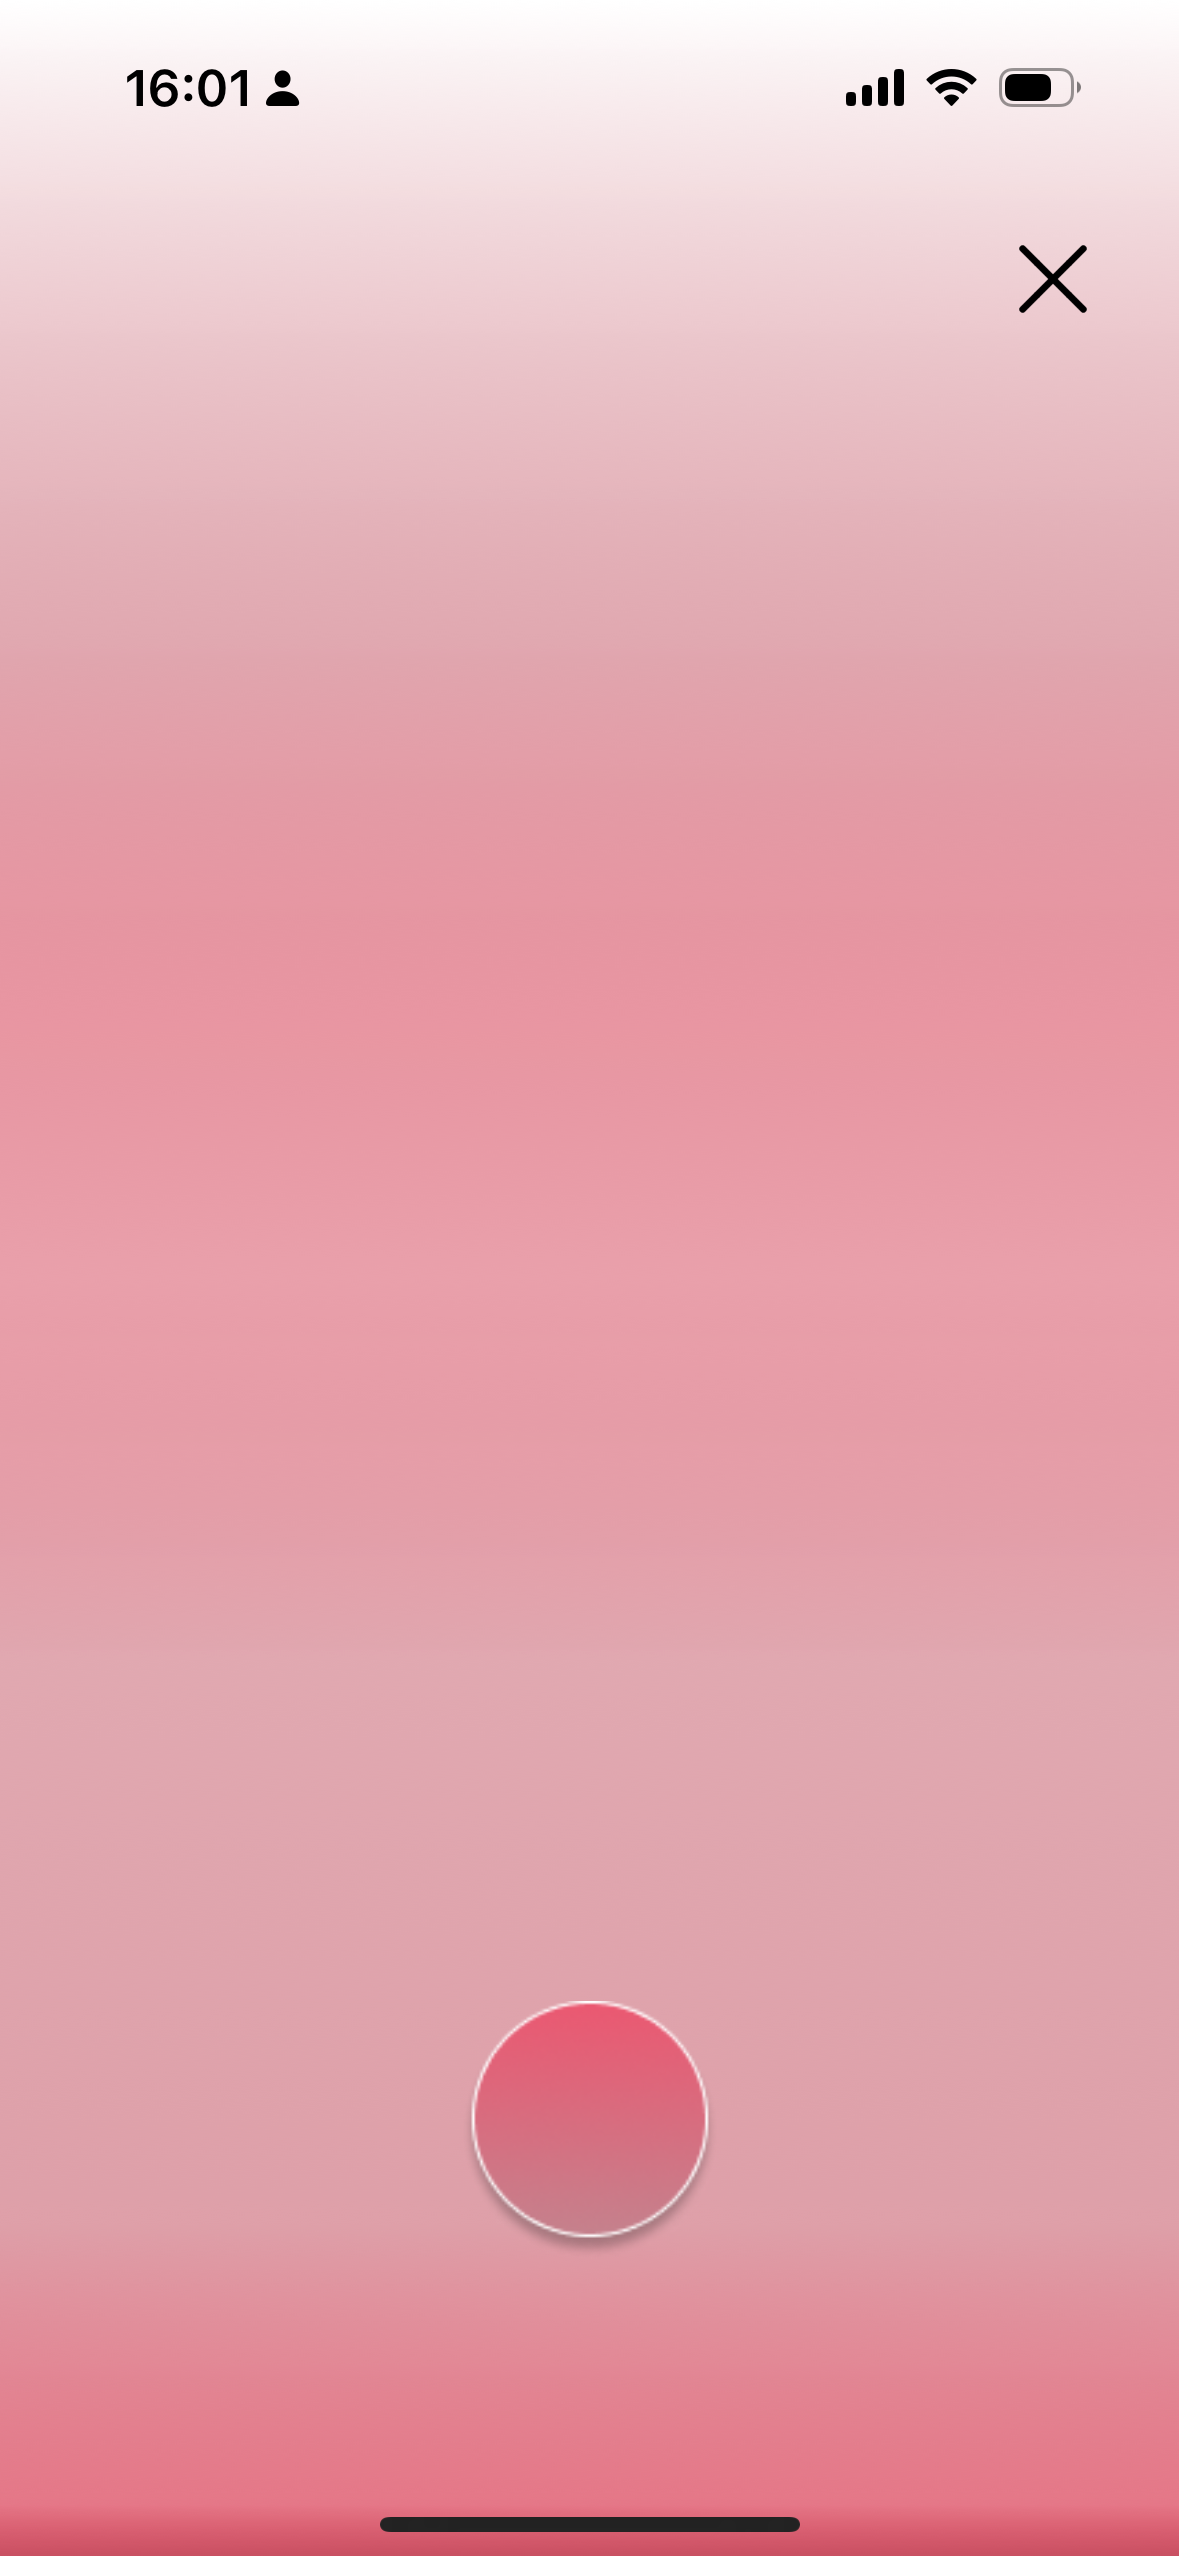
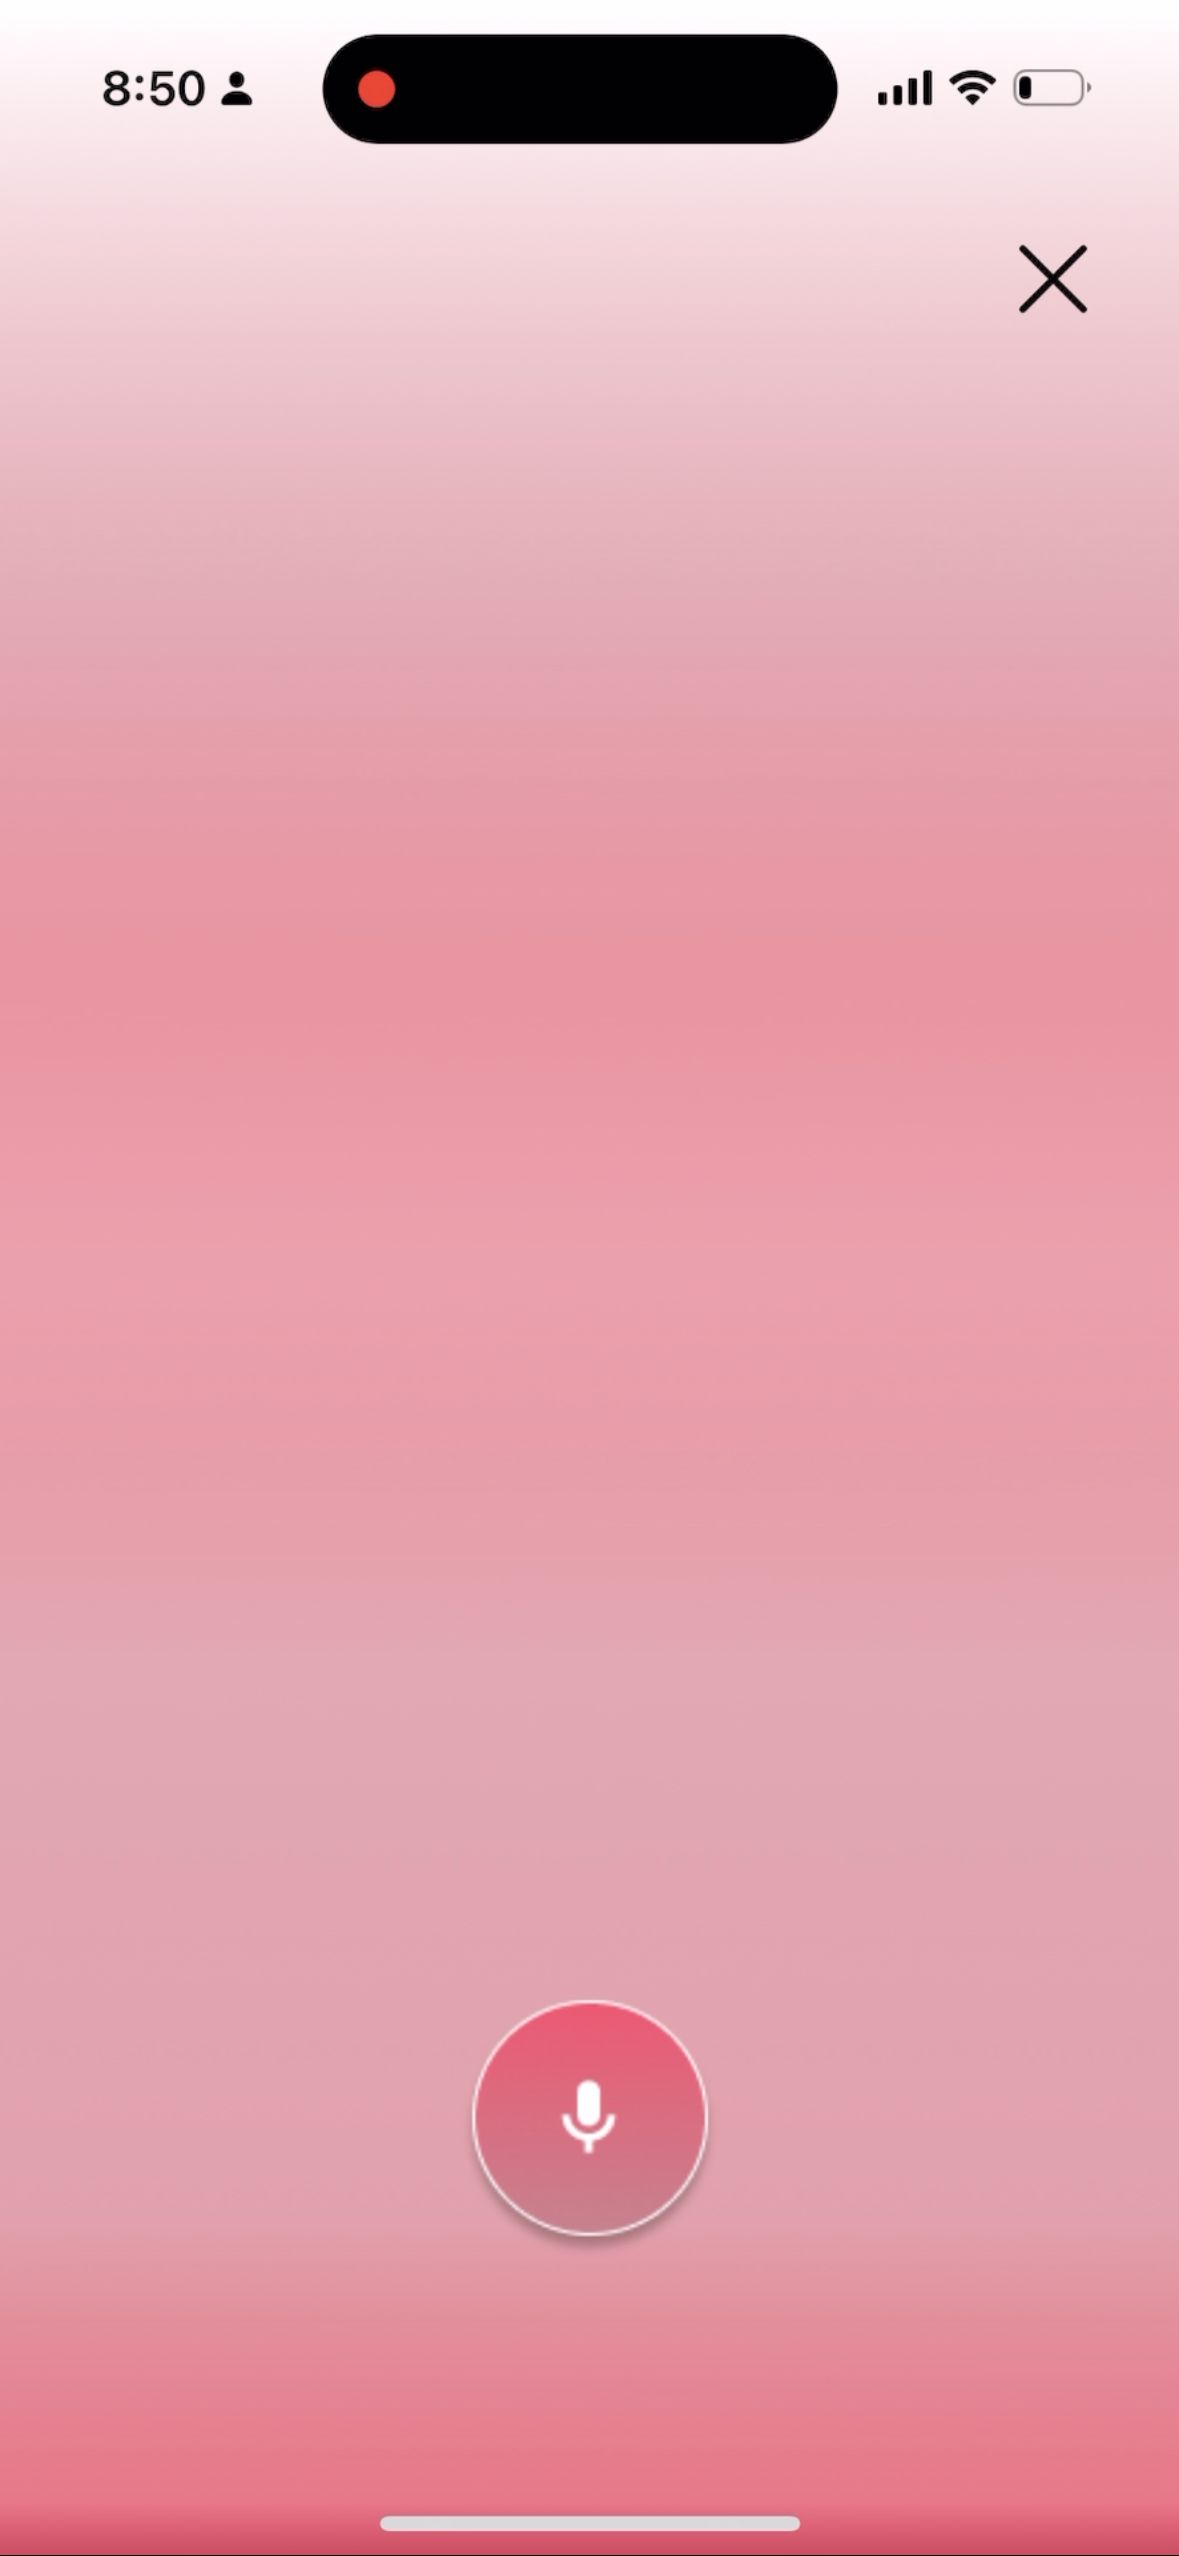
音声録音の画像について、差し替え

diff --git a/src/components/ui/HowToSet.tsx b/src/components/ui/HowToSet.tsx
@@ -7,7 +7,7 @@ import {
 } from '@chakra-ui/react';
 import { useTranslation } from 'react-i18next';
 import '@/i18n';
-import RecordingOne from '../../assets/recordingOne.png';
+import RecordingOne from '../../assets/recordingThree.png';
 import RecordingTwo from '../../assets/recordingTwo.png';
 import ContactOne from '../../assets/contactOne.png';
 import ContactThree from '../../assets/contactThree.png';
@@ -138,7 +138,7 @@ export default function HowToSet() {
                         </Flex>
                         <Flex gap="32px" marginTop="24px">
                             <Image src={RecordingOne} alt="Voice Recording" width={240} height={520} />
-                            <Image src={ContactThree} alt="Voice Recording" width={240} height={520} />
+                            <Image src={RecordingTwo} alt="Voice Recording" width={240} height={520} />
                         </Flex>
                     </Flex>
                     <Flex align="center" direction="column" gap="0px" py={8} justify="space-between" w="80vw">

diff --git a/src/components/ui/FlowComponents/FlowOneComponent.tsx b/src/components/ui/FlowComponents/FlowOneComponent.tsx
@@ -4,7 +4,7 @@ import {
   Flex,
   Image
 } from '@chakra-ui/react';
-import RecordingOne from '../../../assets/recordingOne.png';
+import RecordingOne from '../../../assets/recordingThree.png';
 import RecordingTwo from '../../../assets/recordingTwo.png';
 import { useTranslation } from 'react-i18next';
 import '@/i18n';
